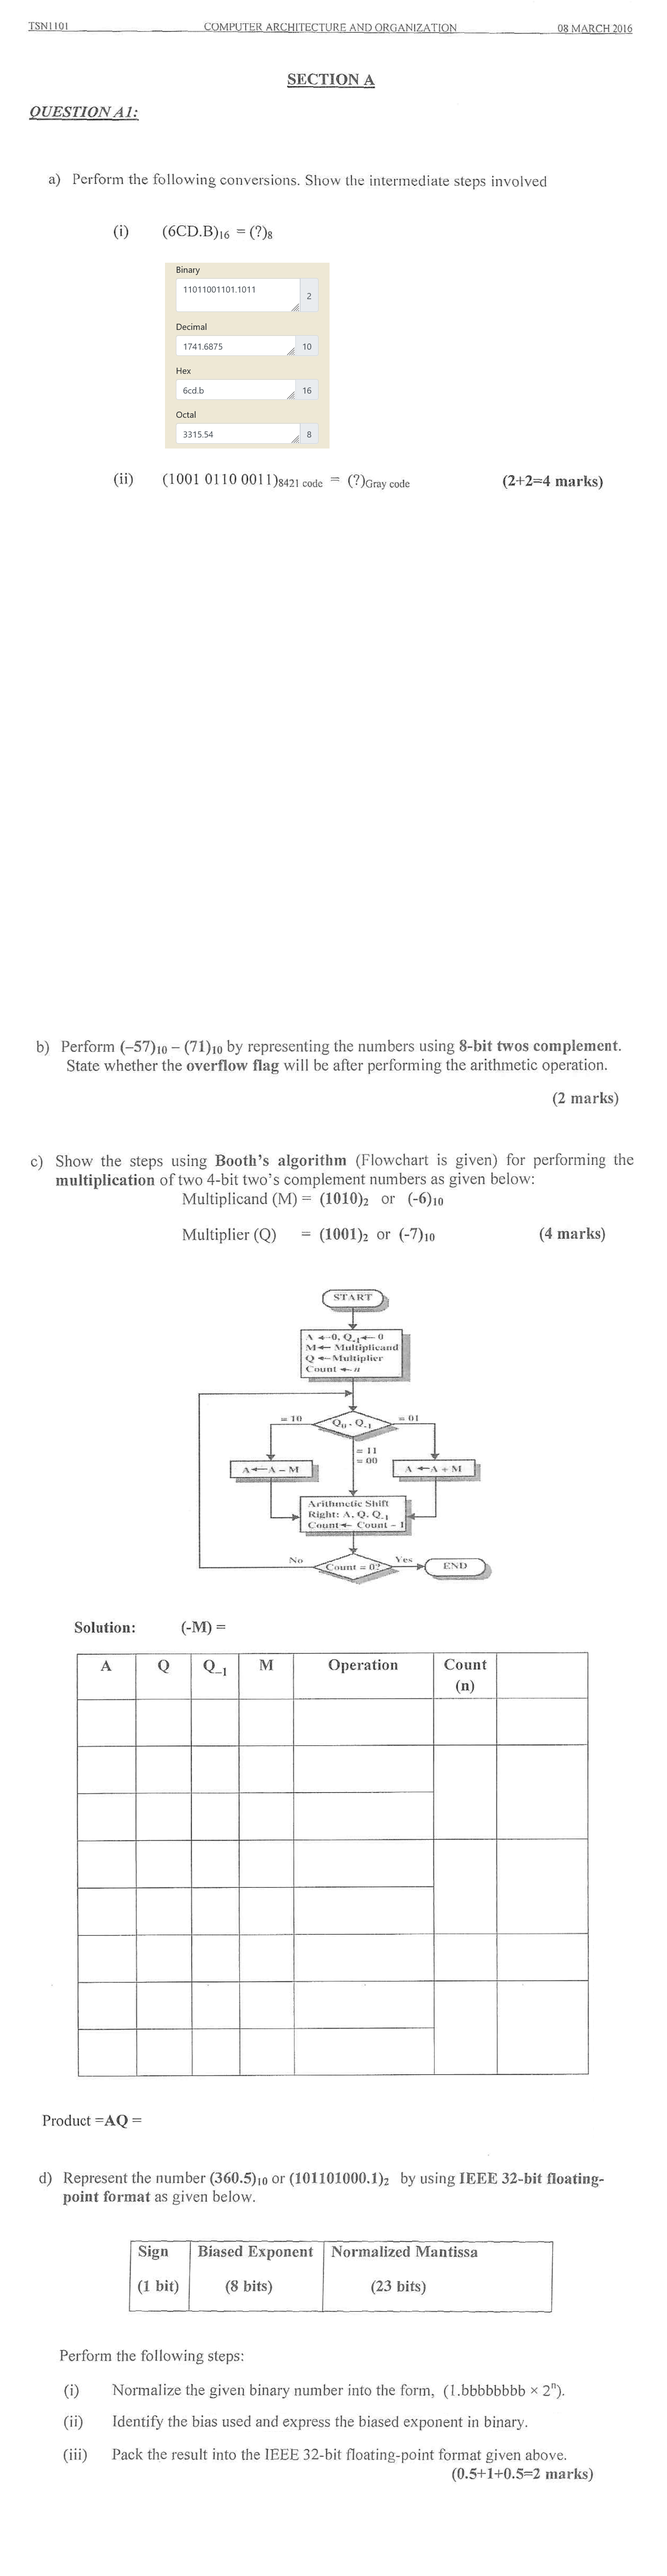
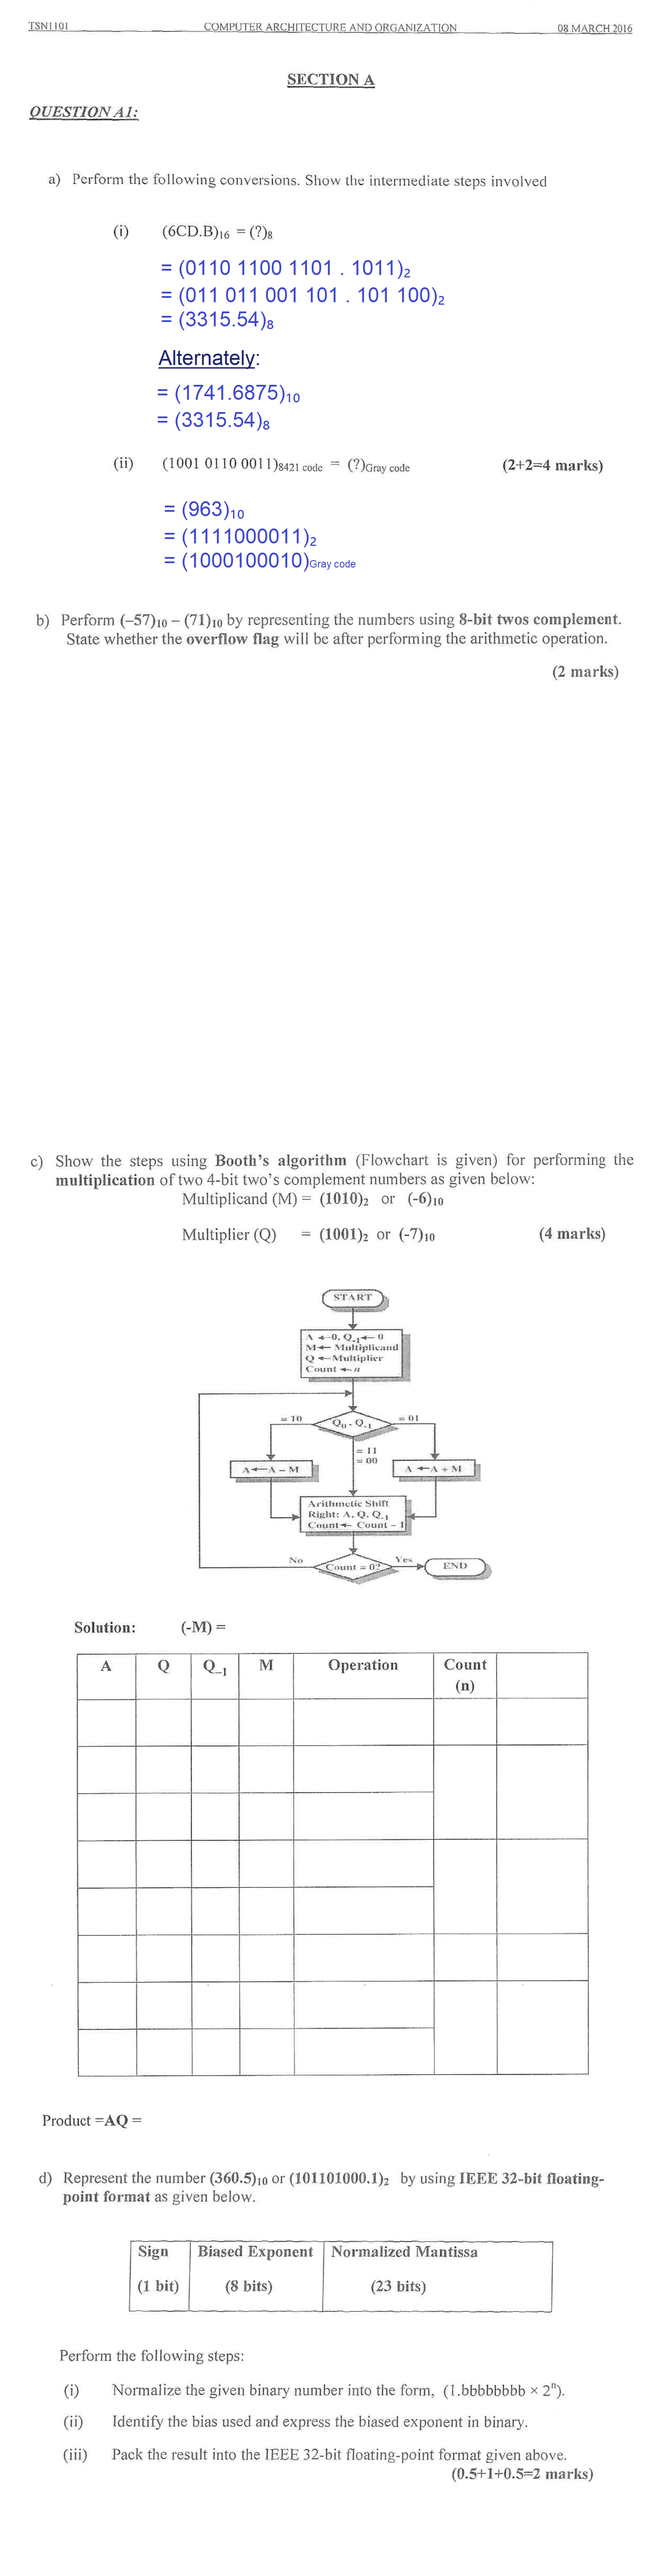
e
tsc w

diff --git a/index.html b/index.html
@@ -48,7 +48,7 @@
 		<div class="package-content">
 			<div class="box">
 				<div class="thum">
-					<a href="#Foundation"><img src="img/img1.png"></a> 
+					<a href="#Foundation"><img src="img/TuyuUK.png"></a> 
 					<h3>Free</h3>
 				</div>
 
@@ -63,7 +63,7 @@
 
 			<div class="box">
 				<div class="thum">
-					<a href="#Degree"><img src="img/img2.png"></a> 
+					<a href="#Degree"><img src="img/Victorique2.png"></a> 
 					<h3>Free</h3>
 				</div>
 
@@ -89,9 +89,7 @@
 					</div>
 
 				</div>
-			</div>
-
-			
+			</div>			
 
 		</div>
 	</section>
@@ -235,8 +233,8 @@
 						<li><a href="#">Top</a></li>
 						<li><a href="#course">Course Selection</a></li>
 						<li><a href="#Foundation">Foundation Subjects</a></li>
+						<li><a href="#DegTiers">Degree Years</a></li>
 						<li><a href="#Degree">Degree Subjects</a></li>
-						<li><a href="#"></a></li>
 					</ul>
 				</div>
 
@@ -264,7 +262,7 @@
 		</div>
 
 		<div class="end-text">
-			<p>Copyright © 2023 - 2024 All rights reserved | Last updated <a href="Update logs.html">2 Apr 2024</a>   </p>
+			<p>Copyright © 2023 - 2024 All rights reserved | Last updated <a href="Update logs.html">3 Apr 2024</a>   </p>
 		</div>
 	</section>
 

diff --git a/TSN 1101/Exams.html b/TSN 1101/Exams.html
@@ -73,6 +73,7 @@
 <div class="content hidecontent"> <!-- https://discord.com/channels/705982671792373841/1025584528695242812/1211972077679284244 -->
   <h1>Question A1</h1>
     <img src="Images/Exams/TSN 1101, Exams, image 17.png">
+    <img src="Images/Exams/TSN 1101, Exams, image 17b.png">
   <h1>Question A2</h1>
     <img src="Images/Exams/TSN 1101, Exams, image 18.png">
   <h1>Question A3</h1>

diff --git a/Update logs.html b/Update logs.html
@@ -757,7 +757,13 @@ th {
         <small>HOW DID I MESS UP CHAPTER 3 SO MUCH</small>
       </td>
     </tr>
-
+    <tr>
+      <td>3 Apr 2024</td>
+      <td> 
+        Further work on TSN 1101 Exams (Edited image 1, 17)<br>
+        (Split image 17)
+      </td>
+    </tr>
 
 
 
